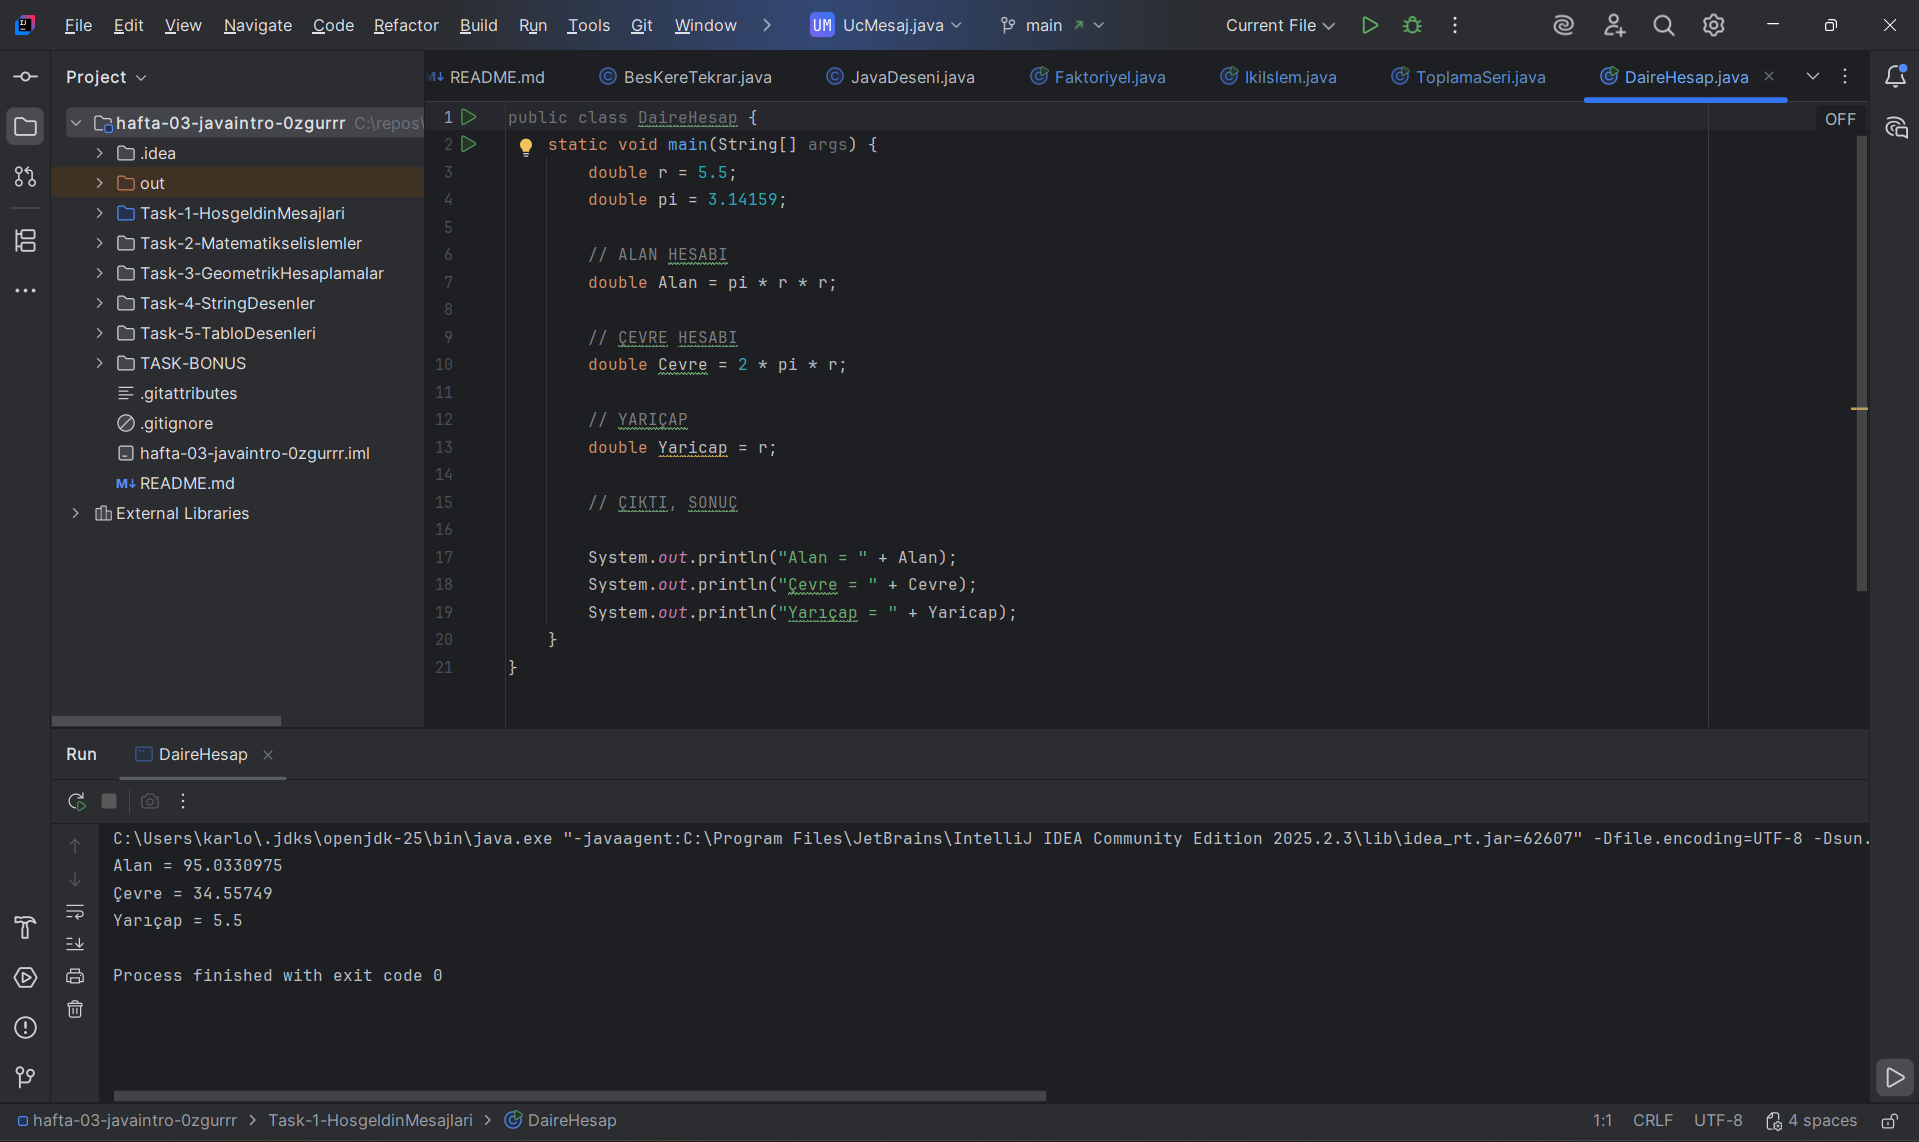
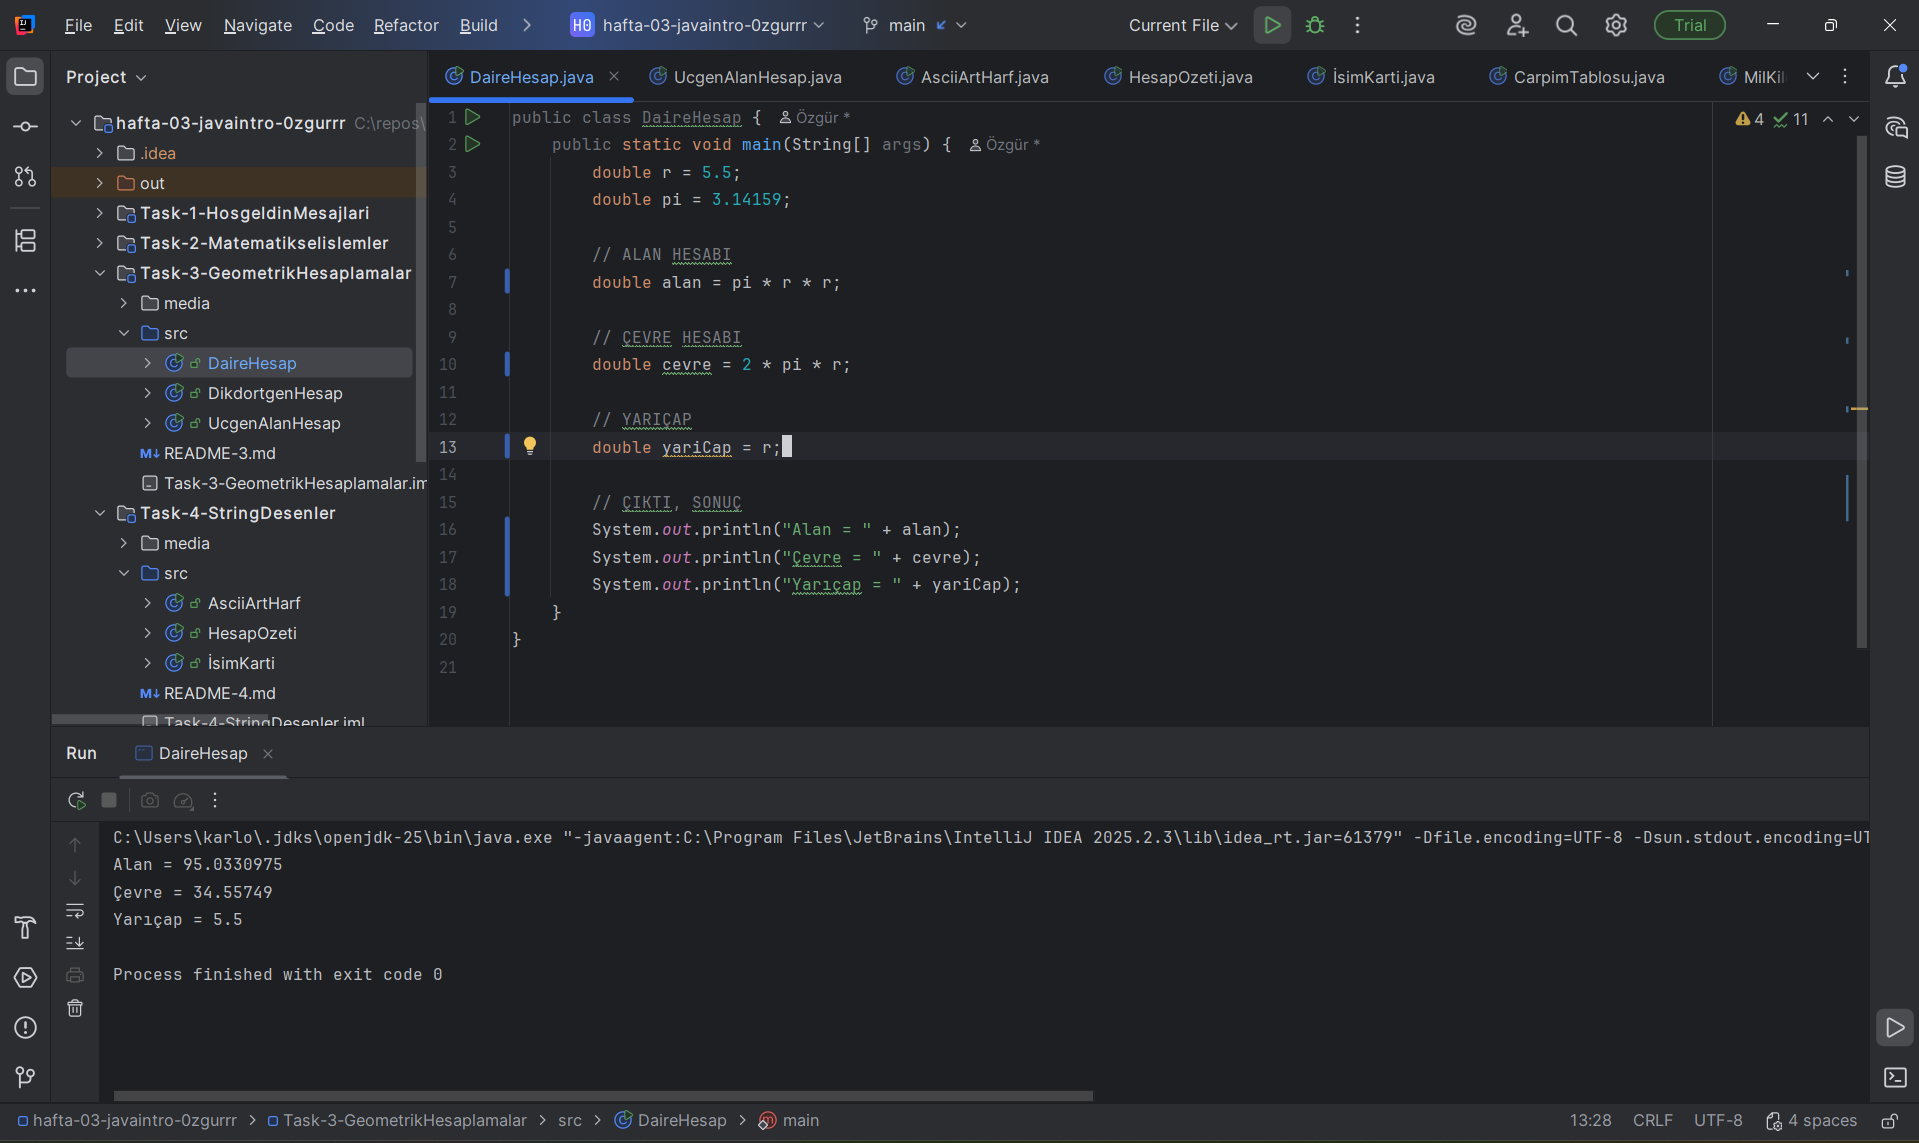
Task Completed

diff --git a/Task-3-GeometrikHesaplamalar/src/DaireHesap.java b/Task-3-GeometrikHesaplamalar/src/DaireHesap.java
@@ -4,17 +4,17 @@ public class DaireHesap {
         double pi = 3.14159;
 
         // ALAN HESABI
-        double Alan = pi * r * r;
+        double alan = pi * r * r;
 
         // ÇEVRE HESABI
-        double Cevre = 2 * pi * r;
+        double cevre = 2 * pi * r;
 
         // YARIÇAP
-        double Yaricap = r;
+        double yariCap = r;
 
         // ÇIKTI, SONUÇ
-        System.out.println("Alan = " + Alan);
-        System.out.println("Çevre = " + Cevre);
-        System.out.println("Yarıçap = " + Yaricap);
+        System.out.println("Alan = " + alan);
+        System.out.println("Çevre = " + cevre);
+        System.out.println("Yarıçap = " + yariCap);
     }
 }

diff --git a/Task-3-GeometrikHesaplamalar/src/DikdortgenHesap.java b/Task-3-GeometrikHesaplamalar/src/DikdortgenHesap.java
@@ -1,12 +1,12 @@
 public class DikdortgenHesap {
     static void main(String[] args) {
-        int En = 3;
+        int en = 3;
 
-        int Boy = 5;
+        int boy = 5;
 
-        int alan = En * Boy;
+        int alan = en * boy;
 
-        int cevre = En + En + Boy + Boy;
+        int cevre = en + en + boy + boy;
 
         System.out.println("Diktörtgenin Alanı = " + alan);
 

diff --git a/Task-3-GeometrikHesaplamalar/README-3.md b/Task-3-GeometrikHesaplamalar/README-3.md
@@ -9,8 +9,8 @@ Amaç, matematiksel formülleri programa dönüştürmek ve değişken, işlem v
 
 # DAİRE ALAN, ÇEVRE HESAP
 
-![DaireHesap.png](media/DaireHesap.png)
+![](media/DaireHesap.png)
 
 ### DİKDÖRTGEN HESAP
 
-![DikdortgenHesap.png](media/DikdortgenHesap.png)
+![](media/Dikd%C3%B6rtgenHesap.png)
